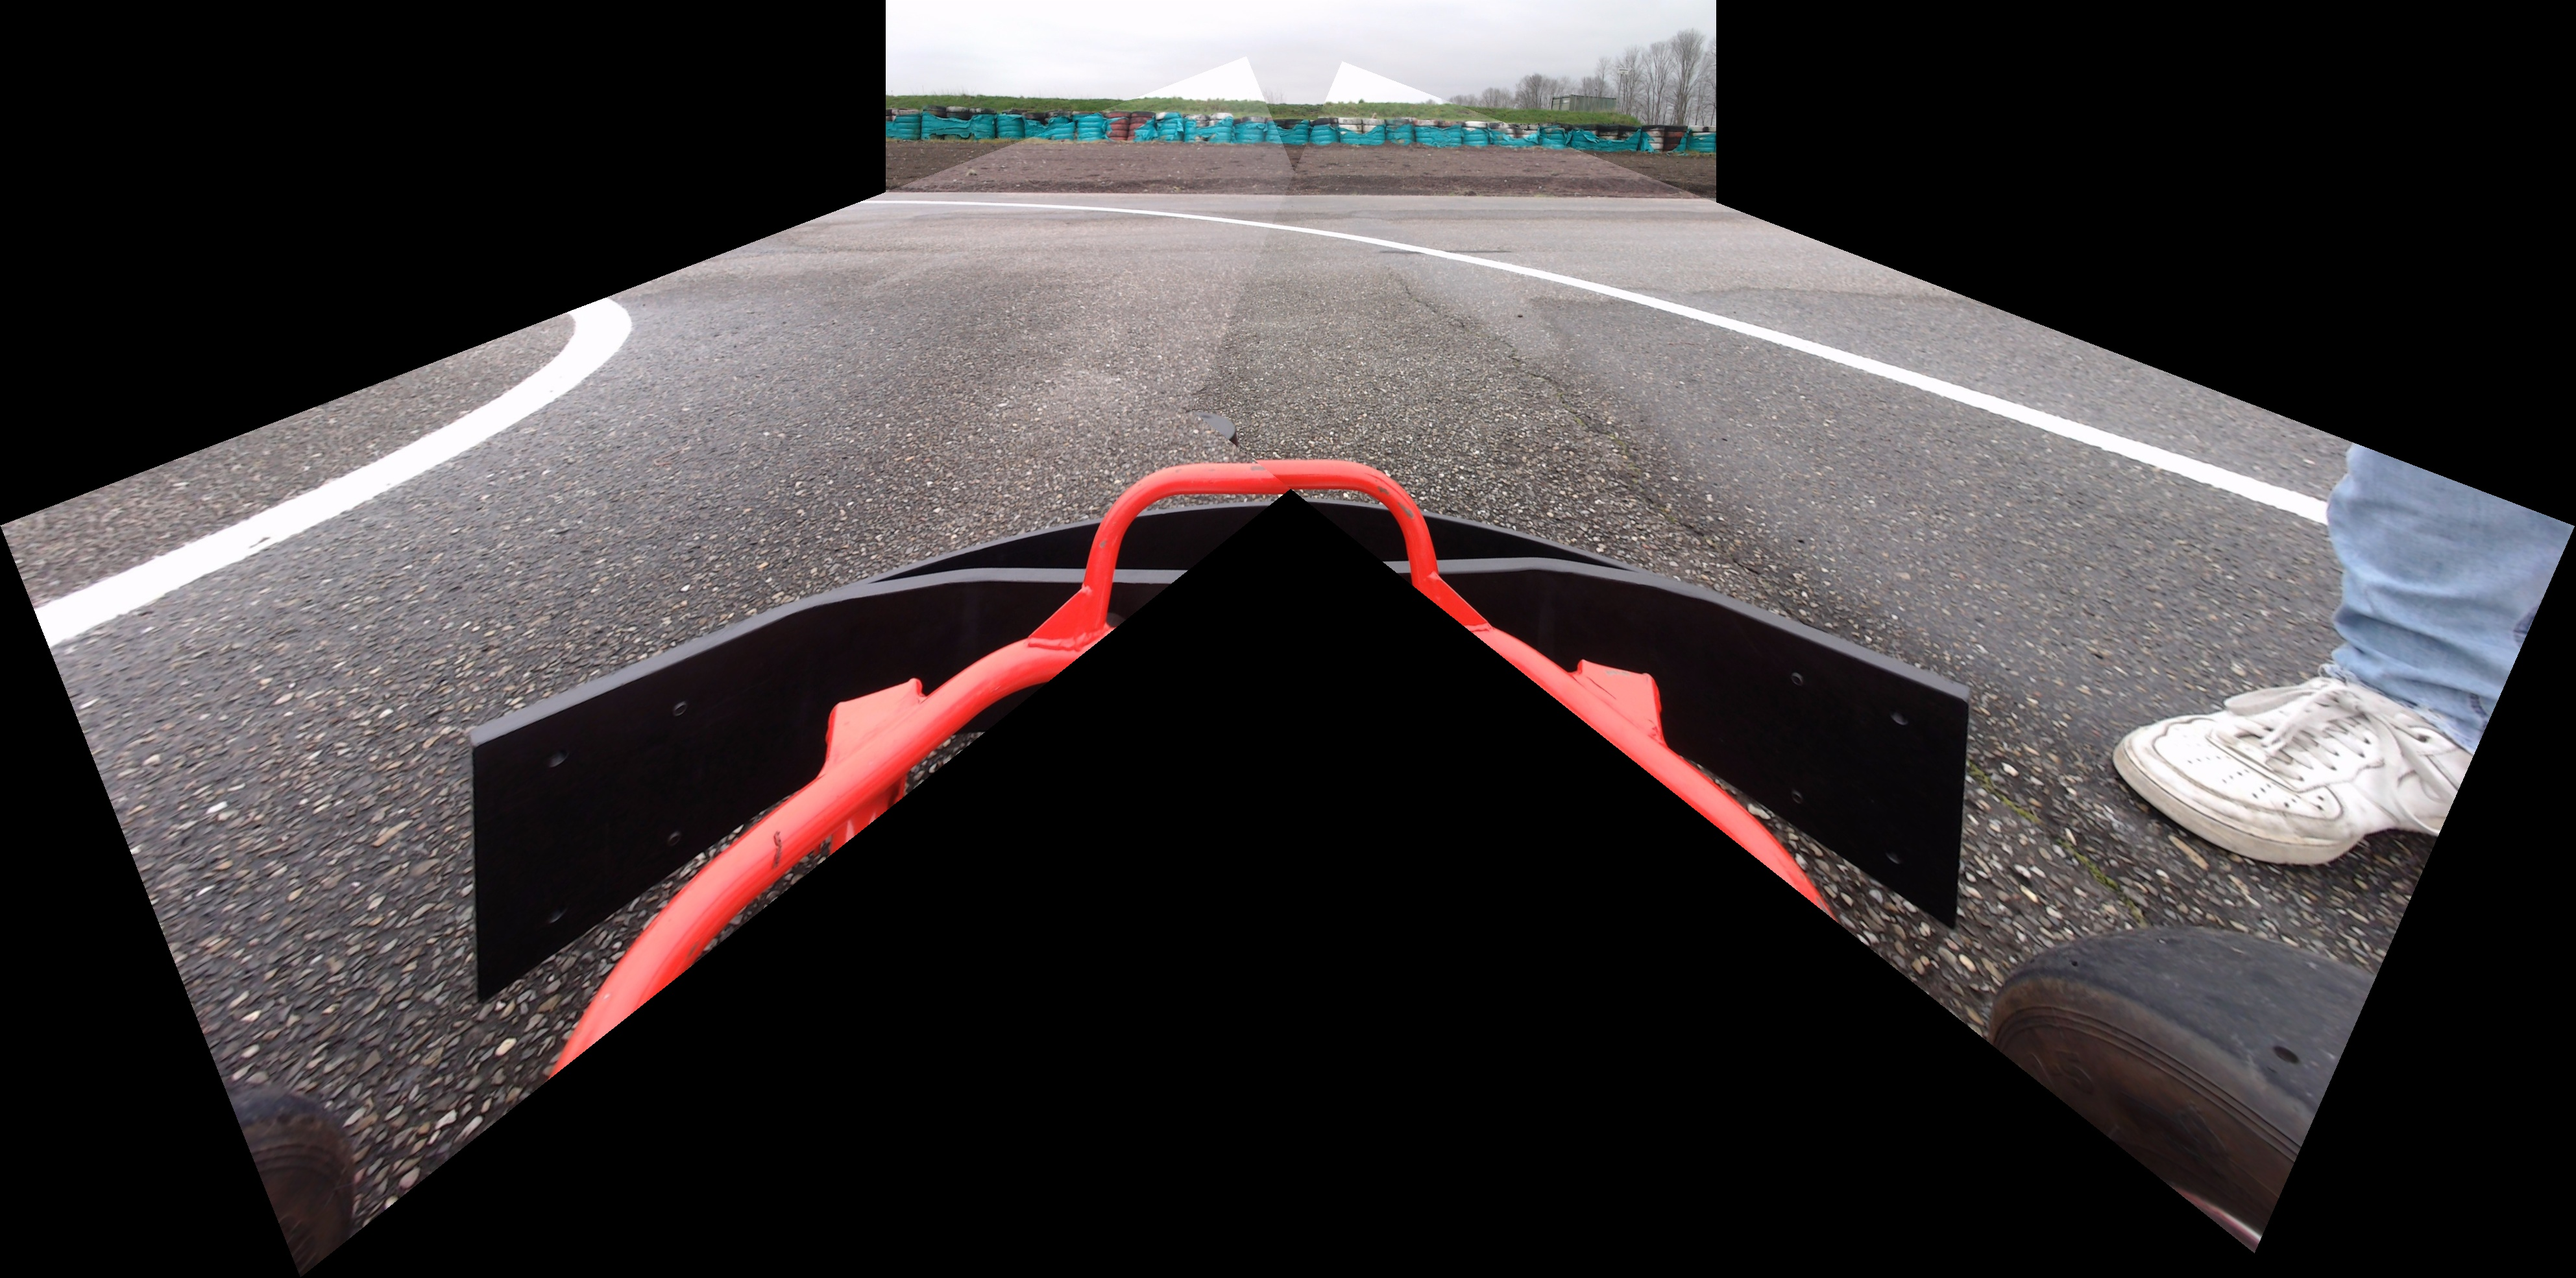
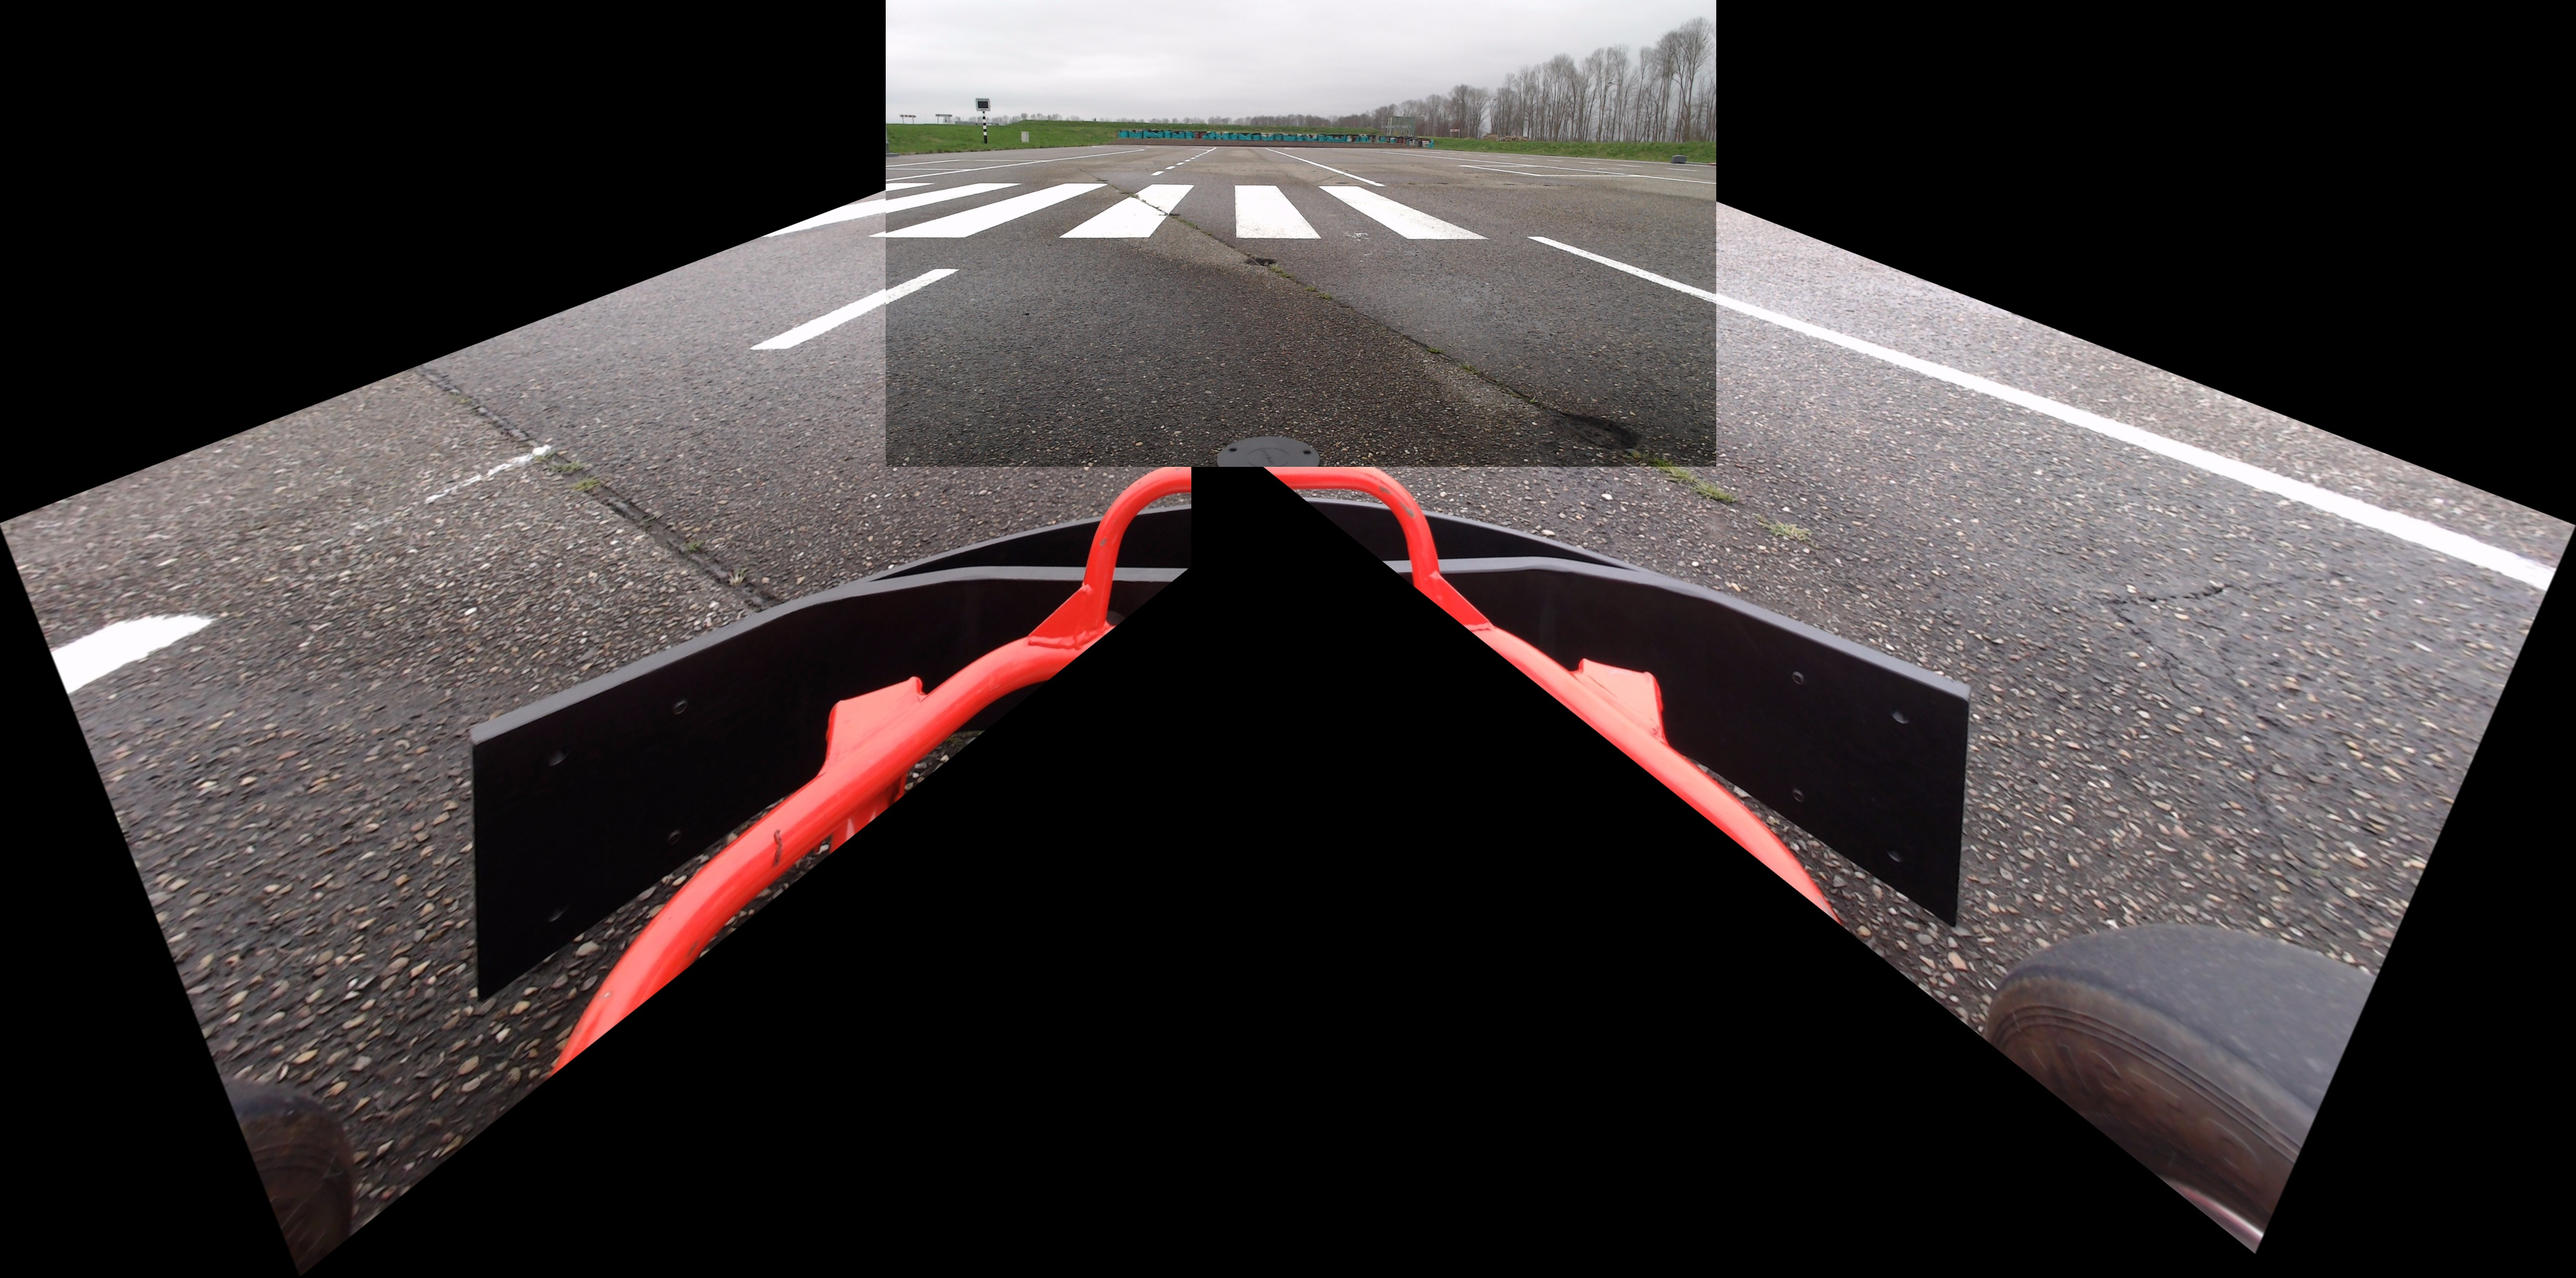
chore: optimize code, add extra examples

Changed region(s): [[0.0, 0.0, 0.9995, 0.9594]]

diff --git a/src/image_stitch/main.py b/src/image_stitch/main.py
@@ -9,35 +9,35 @@ MIN_WIDTH = 0
 MAX_HEIGHT = 720
 MAX_WIDTH = 1280
 
+MASK_OFFSET = np.array([[1, 1], [1, -1], [-1, -1], [-1, 1]])
 PTS_ORIGINAL = np.float32([[MIN_WIDTH, MIN_HEIGHT], [MIN_WIDTH, MAX_HEIGHT],
                            [MAX_WIDTH, MAX_HEIGHT], [MAX_WIDTH, MIN_HEIGHT]])
 
-RATIOS_LEFT = [[0, 1.0055555], [0.36197916, 2.6185186],
-               [1.6765625, 0.7537037], [1.5010417, 0]]
-RATIOS_RIGHT = [[0.18125, 0], [0, 0.74907407],
-                [1.28125, 2.55833333], [1.66770833, 0.99722222]]
+RATIOS_LEFT = np.float32([[0, 1.0055555], [0.36197916, 2.6185186], [1.6765625, 0.7537037], [1.5010417, 0]])
+RATIOS_RIGHT = np.float32([[0.18125, 0], [0, 0.74907407], [1.28125, 2.55833333], [1.66770833, 0.99722222]])
 
-LEFT_X, LEFT_Y = 0.27027708, 0.52165085
-RIGHT_X, RIGHT_Y = 0.73115027, 0.51505412
+LEFT_X, LEFT_Y = 0.27027708, 0.5205 # 0.52165085
+RIGHT_X, RIGHT_Y = 0.73115027, 0.5145 # 0.51505412
 CENTER_X, CENTER_Y = 0.5049538, 0.1826793
 
-# Functions
-def get_points(ratio) -> np.ndarray:
+# Calculate transformation matrices
+def get_points(ratio: np.ndarray) -> np.ndarray:
     """ Get the points of the warped image based on the ratio. """
-    return np.float32(ratio * np.array([MAX_WIDTH, MAX_HEIGHT]))
+    return np.float32(ratio * [MAX_WIDTH, MAX_HEIGHT])
 
-def get_matrix(ratio) -> np.ndarray:
+def get_matrix(ratio: np.ndarray) -> np.ndarray:
     """ Get the transformation matrix based on the ratio. """
     return cv2.getPerspectiveTransform(PTS_ORIGINAL, get_points(ratio))
 
-def get_width(ratio) -> int:
-    """ Get the width of the warped image based on the ratio. """
-    return int(np.max(get_points(ratio)[:, 0]))
+MATRIX_LEFT = get_matrix(RATIOS_LEFT)
+MATRIX_RIGHT = get_matrix(RATIOS_RIGHT)
 
-def get_height(ratio) -> int:
-    """ Get the height of the warped image based on the ratio. """
-    return int(np.max(get_points(ratio)[:, 1]))
+LEFT_WIDTH = np.max(get_points(RATIOS_LEFT)[:, 0]).astype(int)
+LEFT_HEIGHT = np.max(get_points(RATIOS_LEFT)[:, 1]).astype(int)
+RIGHT_WIDTH = np.max(get_points(RATIOS_RIGHT)[:, 0]).astype(int)
+RIGHT_HEIGHT = np.max(get_points(RATIOS_RIGHT)[:, 1]).astype(int)
 
+# Functions
 def relative_to_absolute(x, y, width, height) -> (float, float):
     """ Convert relative coordinates to absolute coordinates. """
     return x * width, y * height
@@ -51,30 +51,12 @@ def get_ltbr(x, y, width, height) -> (int, int, int, int):
 
 def warp_image(image, matrix, width, height) -> np.ndarray:
     """ Warp the image based on the transformation matrix. """
-    return cv2.warpPerspective(image, matrix, (width, height), flags=cv2.INTER_LINEAR,
-                               borderMode=cv2.BORDER_CONSTANT, borderValue=[0, 0, 0, 0])
+    return cv2.warpPerspective(image, matrix, (width, height), flags=cv2.INTER_LINEAR)
 
 def merge_image(base, overlay, x1, y1, x2, y2):
     """ Merge two images. """
-    image = base.copy()
-    if overlay.shape[2] == 4:
-        alpha = overlay[:, :, 3]
-        mask = alpha == 255
-
-        image[y1:y2, x1:x2][mask] = overlay[mask][:, :3]
-    else:
-        image[y1:y2, x1:x2] = overlay
-
-    return image
-
-# Main
-matrix_left = get_matrix(RATIOS_LEFT)
-left_width = get_width(RATIOS_LEFT)
-left_height = get_height(RATIOS_LEFT)
-
-matrix_right = get_matrix(RATIOS_RIGHT)
-right_width = get_width(RATIOS_RIGHT)
-right_height = get_height(RATIOS_RIGHT)
+    base[y1:y2, x1:x2] = overlay
+    return base
 
 def stitch_images(left: np.ndarray, center: np.ndarray, right: np.ndarray) -> np.ndarray:
     """ Stitch the images together. """
@@ -83,38 +65,36 @@ def stitch_images(left: np.ndarray, center: np.ndarray, right: np.ndarray) -> np
     right = cv2.resize(right, (MAX_WIDTH, MAX_HEIGHT))
 
     # Warp images
-    left = cv2.cvtColor(left, cv2.COLOR_RGB2RGBA)
-    right = cv2.cvtColor(right, cv2.COLOR_RGB2RGBA)
-    left_res = warp_image(left, matrix_left, left_width, left_height)
-    right_res = warp_image(right, matrix_right, right_width, right_height)
+    left_res = warp_image(left, MATRIX_LEFT, LEFT_WIDTH, LEFT_HEIGHT)
+    right_res = warp_image(right, MATRIX_RIGHT, RIGHT_WIDTH, RIGHT_HEIGHT)
 
     # Calculate result image size
-    result_width = int(math.ceil(left_width / 2 / LEFT_X))
+    result_width = int(math.ceil(LEFT_WIDTH / 2 / LEFT_X))
     result_height = int(math.ceil(MAX_HEIGHT / 2 / CENTER_Y))
 
     # Calculate the position of the images
     lxc, lyc = relative_to_absolute(LEFT_X, LEFT_Y, result_width, result_height)
-    lx1, ly1, lx2, ly2 = get_ltbr(lxc, lyc, left_width, left_height)
+    lx1, ly1, lx2, ly2 = get_ltbr(lxc, lyc, LEFT_WIDTH, LEFT_HEIGHT)
 
     rxc, ryc = relative_to_absolute(RIGHT_X, RIGHT_Y, result_width, result_height)
-    rx1, ry1, rx2, ry2 = get_ltbr(rxc, ryc, right_width, right_height)
+    rx1, ry1, rx2, ry2 = get_ltbr(rxc, ryc, RIGHT_WIDTH, RIGHT_HEIGHT)
 
     cxc, cyc = relative_to_absolute(CENTER_X, CENTER_Y, result_width, result_height)
     cx1, cy1, cx2, cy2 = get_ltbr(cxc, cyc, MAX_WIDTH, MAX_HEIGHT)
 
     # Create result image
     result = np.zeros((result_height, result_width, 3), dtype=np.uint8)
-    result = merge_image(result, center, cx1, cy1, cx2, cy2)
     result = merge_image(result, left_res, lx1, ly1, lx2, ly2)
     result = merge_image(result, right_res, rx1, ry1, rx2, ry2)
+    result = merge_image(result, center, cx1, cy1, cx2, cy2)
 
     return result
 
 if __name__ == '__main__':
     # Load images
-    center = cv2.imread('images/corner/center.jpg')
-    left = cv2.imread('images/corner/left.jpg')
-    right = cv2.imread('images/corner/right.jpg')
+    center = cv2.imread('images/crossing/center.jpg')
+    left = cv2.imread('images/crossing/left.jpg')
+    right = cv2.imread('images/crossing/right.jpg')
 
     # Write result
     result = stitch_images(left, center, right)
